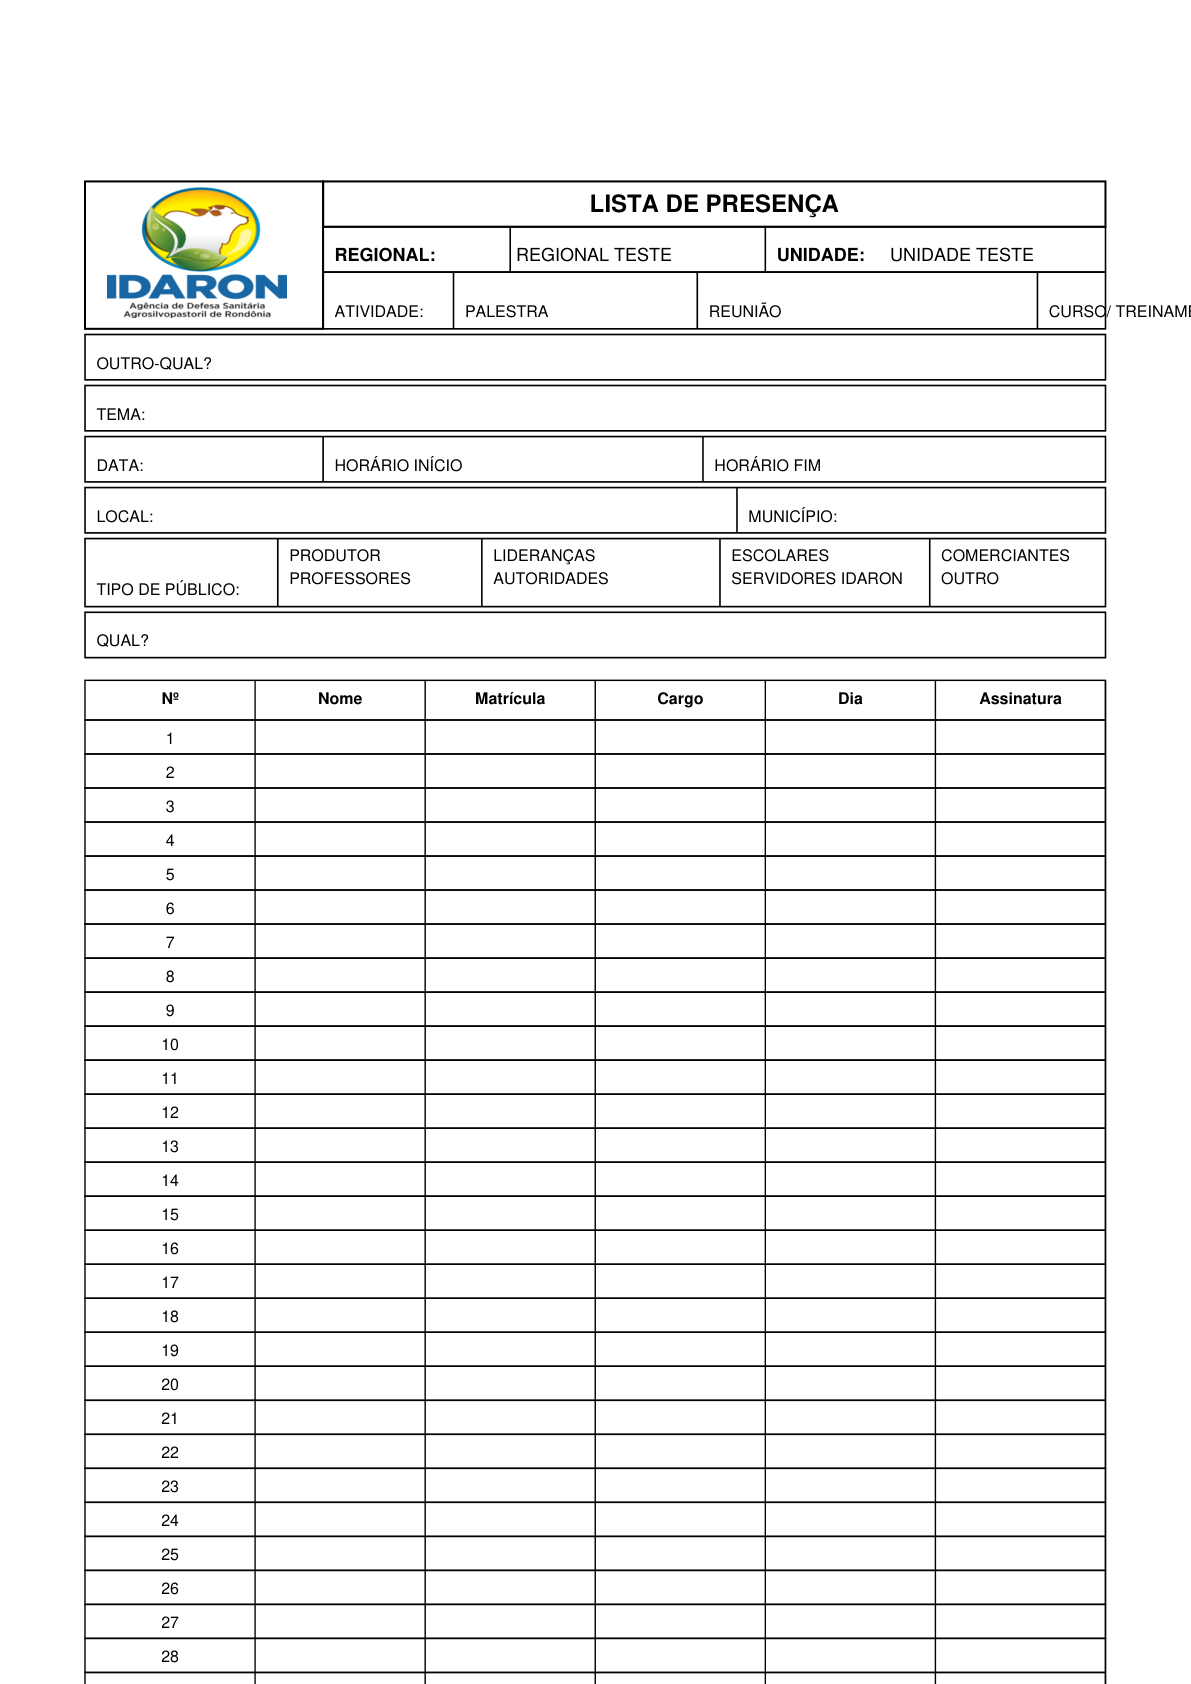
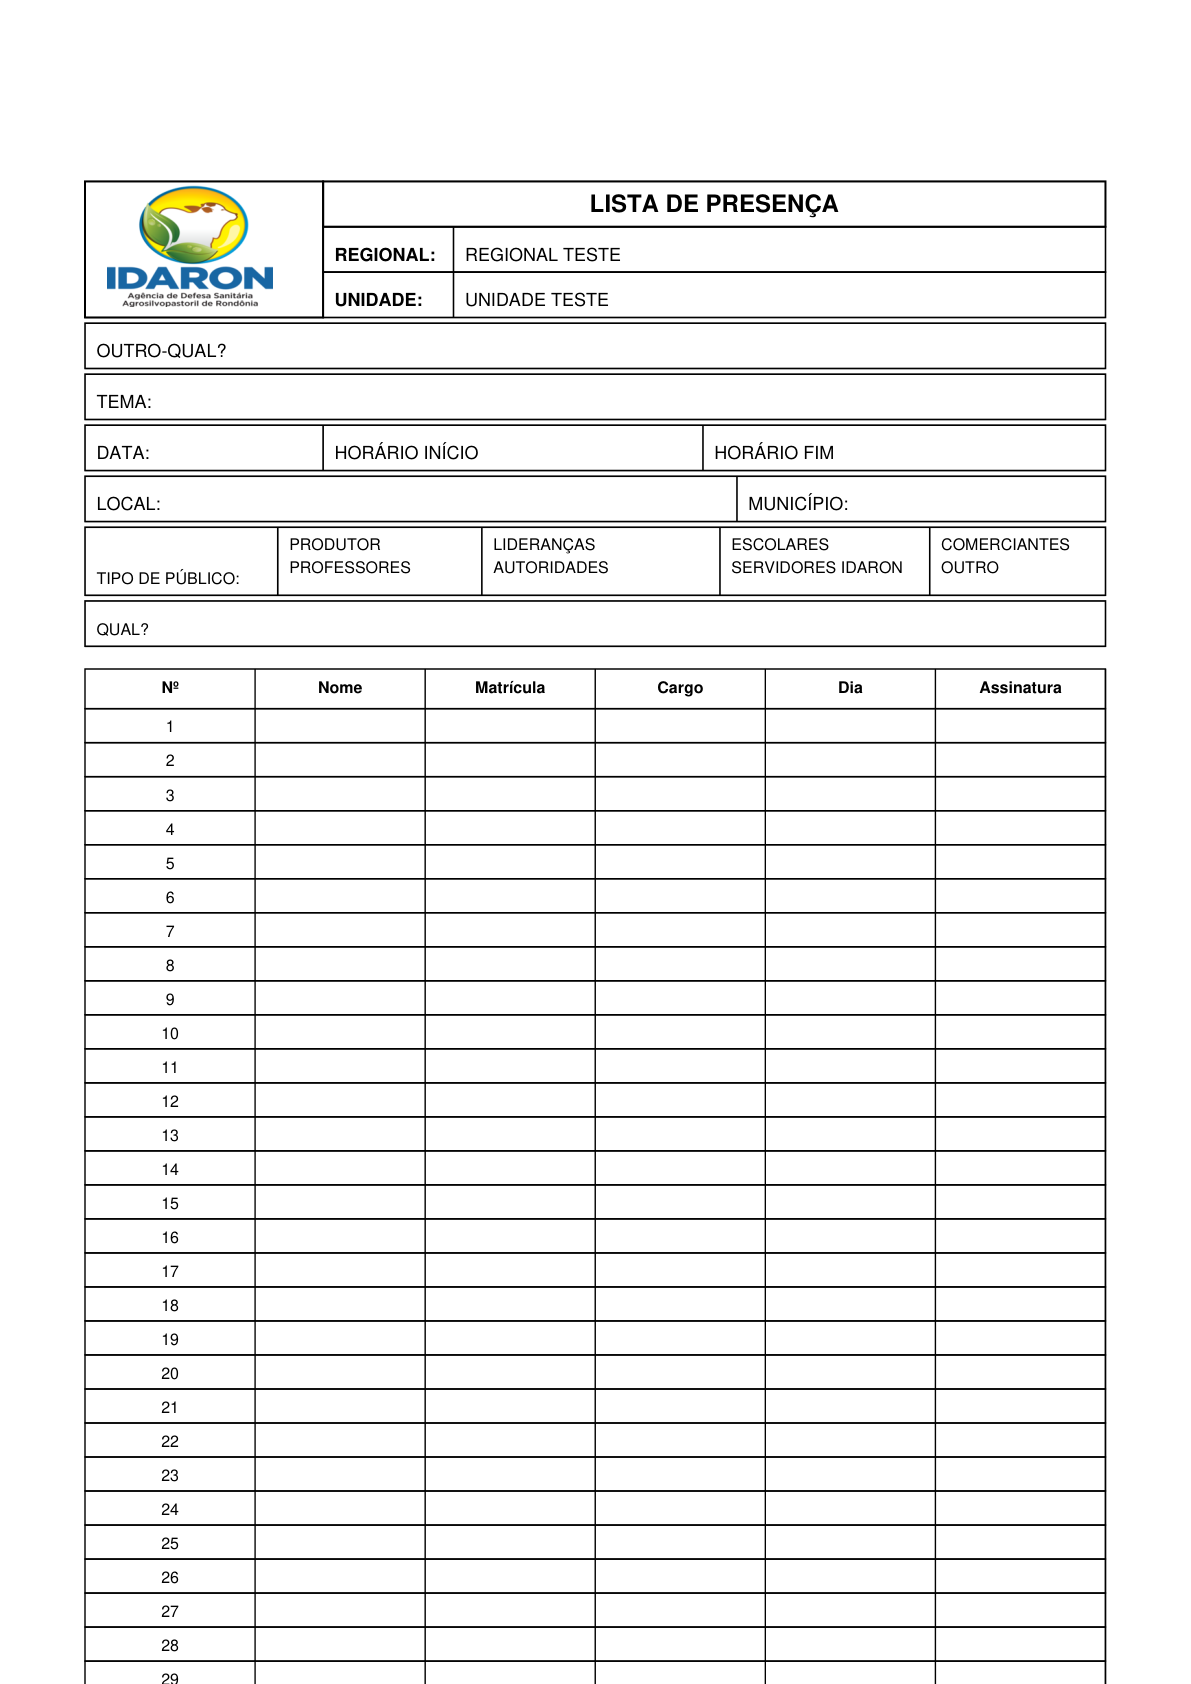
tres primeira linhas ok

Changed region(s): [[0.0621, 0.0926, 0.932, 1.0], [0.7456, 0.1235, 0.8699, 0.1544], [0.6524, 0.1235, 0.7145, 0.1544]]

diff --git a/pdf/lista_presenca.py b/pdf/lista_presenca.py
@@ -34,9 +34,10 @@ def _draw_header(
 
     # logo e título em topo
     y_top = altura_pagina - 14 * mm
-    h_titulo = 8 * mm
-    h_regional = 8 * mm
-    h_atividade = 10 * mm
+    h_topo = 8 * mm
+    h_titulo = h_topo
+    h_regional = h_topo
+    h_atividade = h_topo
     logo_h = h_titulo + h_regional + h_atividade
     area_campos_x = x + 42 * mm
     area_campos_w = largura_tabela - 42 * mm
@@ -70,44 +71,25 @@ def _draw_header(
     y = bloco_top_y - h_titulo
     c.setLineWidth(0.8)
 
-    # REGIONAL / UNIDADE
+    # REGIONAL
     h = h_regional
-    divisor_regional_unidade_x = area_campos_x + 78 * mm
+    divisor_campo_x = area_campos_x + 23 * mm
     c.rect(area_campos_x, y - h, area_campos_w, h, fill=0)
-    c.line(area_campos_x + 33 * mm, y - h, area_campos_x + 33 * mm, y)
-    c.line(divisor_regional_unidade_x, y - h, divisor_regional_unidade_x, y)
+    c.line(divisor_campo_x, y - h, divisor_campo_x, y)
     c.setFont('Helvetica-Bold', 9)
     c.drawString(area_campos_x + 2 * mm, y - h + 2 * mm, 'REGIONAL:')
-    c.drawString(divisor_regional_unidade_x + 2 * mm, y - h + 2 * mm, 'UNIDADE:')
     c.setFont('Helvetica', 9)
-    c.drawString(area_campos_x + 34 * mm, y - h + 2 * mm, str(regional))
-    c.drawString(divisor_regional_unidade_x + 22 * mm, y - h + 2 * mm, str(unidade))
+    c.drawString(divisor_campo_x + 2 * mm, y - h + 2 * mm, str(regional))
 
     y -= h
-    # ATIVIDADE
+    # UNIDADE
     h = h_atividade
     c.rect(area_campos_x, y - h, area_campos_w, h, fill=0)
-    # colunas
-    col1 = area_campos_x + 23 * mm
-    col2 = area_campos_x + 66 * mm
-    col3 = area_campos_x + 126 * mm
-    col4 = area_campos_x + 166 * mm
-    c.line(col1, y - h, col1, y)
-    c.line(col2, y - h, col2, y)
-    c.line(col3, y - h, col3, y)
-    c.line(col4, y - h, col4, y)
-
-    c.setFont('Helvetica', 8)
-    c.drawString(area_campos_x + 2 * mm, y - h + 2 * mm, 'ATIVIDADE:')
-    c.drawString(col1 + 2 * mm, y - h + 2 * mm, 'PALESTRA')
-    c.drawString(col2 + 2 * mm, y - h + 2 * mm, 'REUNIÃO')
-    c.drawString(col3 + 2 * mm, y - h + 2 * mm, 'CURSO/ TREINAMENTO')
-    c.drawString(col4 + 2 * mm, y - h + 2 * mm, 'ENCONTRO')
-    c.drawString(area_campos_x + 2 * mm, y - h - 4 * mm, str(atividade))
-    c.drawString(col1 + 2 * mm, y - h - 4 * mm, str(atividade_palestra))
-    c.drawString(col2 + 2 * mm, y - h - 4 * mm, str(atividade_reuniao))
-    c.drawString(col3 + 2 * mm, y - h - 4 * mm, str(atividade_curso))
-    c.drawString(col4 + 2 * mm, y - h - 4 * mm, str(atividade_encontro))
+    c.line(divisor_campo_x, y - h, divisor_campo_x, y)
+    c.setFont('Helvetica-Bold', 9)
+    c.drawString(area_campos_x + 2 * mm, y - h + 2 * mm, 'UNIDADE:')
+    c.setFont('Helvetica', 9)
+    c.drawString(divisor_campo_x + 2 * mm, y - h + 2 * mm, str(unidade))
 
     y -= h + 1 * mm
     # OUTRO-QUAL?
